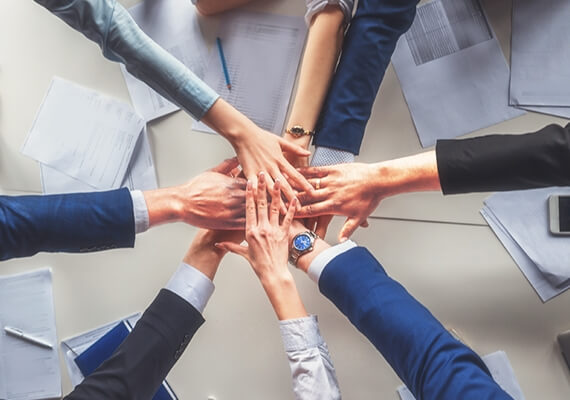
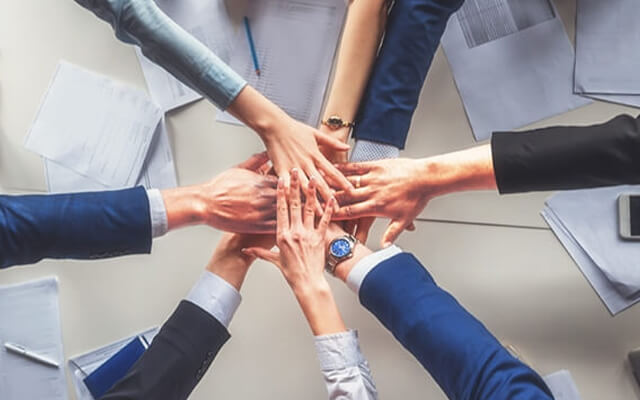
Company About Page Image Changed

diff --git a/mainpage/21_Company_About.html b/mainpage/21_Company_About.html
@@ -369,7 +369,7 @@
             <div class="col">
                 <div class="company-aboutus-layout02-imagebox">
                     <div class="company-aboutus-layout02-image">
-                        <img src="../assets/img/mainpage/elements/About_Image_01.jpg" alt="About" width="570" height="400">
+                        <img src="https://www.icrypex.com/public/assets/img/mainpage/elements/About_Image_01.jpg" alt="About">
                     </div>
                 </div>
             </div>
@@ -380,7 +380,7 @@
             <div class="col">
                 <div class="company-aboutus-layout02-imagebox">
                     <div class="company-aboutus-layout02-image">
-                        <img src="../assets/img/mainpage/elements/About_Image_03.jpg" alt="About" width="570" height="400">
+                        <img src="https://www.icrypex.com/public/assets/img/mainpage/elements/About_Image_03.jpg" alt="About">
                     </div>
                 </div>
             </div>
@@ -414,7 +414,7 @@
             <div class="col">
                 <div class="company-aboutus-layout02-imagebox">
                     <div class="company-aboutus-layout02-image">
-                        <img src="../assets/img/mainpage/elements/About_Image_02.jpg" alt="About" width="570" height="400">
+                        <img src="https://www.icrypex.com/public/assets/img/mainpage/elements/About_Image_02.jpg" alt="About">
                     </div>
                 </div>
             </div>

diff --git a/mainpage/21_Company_About_EN.html b/mainpage/21_Company_About_EN.html
@@ -369,7 +369,7 @@
             <div class="col">
                 <div class="company-aboutus-layout02-imagebox">
                     <div class="company-aboutus-layout02-image">
-                        <img src="../assets/img/mainpage/elements/About_Image_01.jpg" alt="About" width="570" height="400">
+                        <img src="https://www.icrypex.com/public/assets/img/mainpage/elements/About_Image_01.jpg" alt="About">
                     </div>
                 </div>
             </div>
@@ -380,7 +380,7 @@
             <div class="col">
                 <div class="company-aboutus-layout02-imagebox">
                     <div class="company-aboutus-layout02-image">
-                        <img src="../assets/img/mainpage/elements/About_Image_03.jpg" alt="About" width="570" height="400">
+                        <img src="https://www.icrypex.com/public/assets/img/mainpage/elements/About_Image_03.jpg" alt="About">
                     </div>
                 </div>
             </div>
@@ -414,7 +414,7 @@
             <div class="col">
                 <div class="company-aboutus-layout02-imagebox">
                     <div class="company-aboutus-layout02-image">
-                        <img src="../assets/img/mainpage/elements/About_Image_02.jpg" alt="About" width="570" height="400">
+                        <img src="https://www.icrypex.com/public/assets/img/mainpage/elements/About_Image_02.jpg" alt="About">
                     </div>
                 </div>
             </div>
